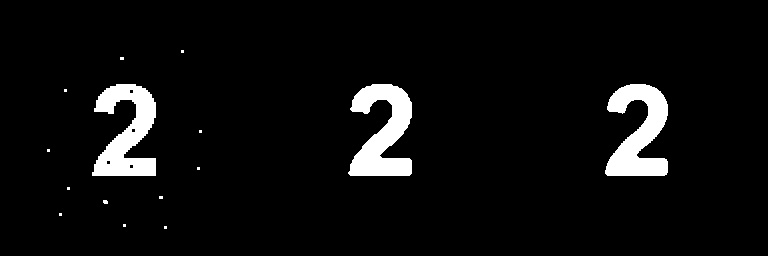
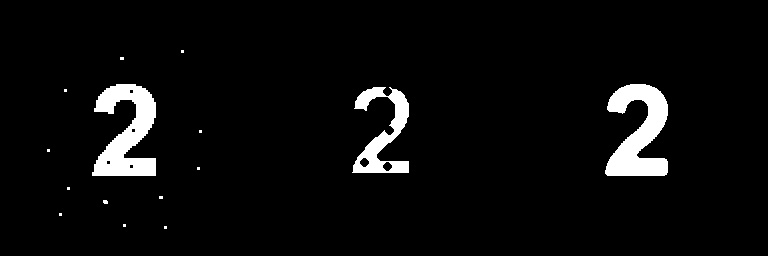
assignment3 complketerd

Changed region(s): [[0.4375, 0.3125, 0.5625, 0.6875]]

diff --git a/machinevision/assignment3/filter.py b/machinevision/assignment3/filter.py
@@ -3,24 +3,38 @@ import numpy as np
 
 
 def morphologicalFilter(image):
-    kernel = [[0,0,1,0,0], [0,1,1,1,0], [1,1,1,1,1], [0,1,1,1,0], [0,0,1,0,0]]
+    kernel = [[0,1,0], [1,1,1], [0,1,0]]
     kernel = np.array(kernel, np.uint8)
     ###############################################################
     # code for output image b
-    # image = cv2.morphologyEx(input, cv2.MORPH_ERODE, kernel)
+    # kernel = [[0, 0, 0, 1, 0, 0, 0],
+    #           [0, 0, 1, 1, 1, 0, 0],
+    #           [0, 1, 1, 1, 1, 1, 0],
+    #           [1, 1, 1, 1, 1, 1, 1],
+    #           [0, 1, 1, 1, 1, 1, 0],
+    #           [0, 0, 1, 1, 1, 0, 0],
+    #           [0, 0, 0, 1, 0, 0, 0]]
+    # kernel = np.array(kernel, np.uint8)
+    # image = cv2.morphologyEx(image, cv2.MORPH_ERODE, kernel)
     ###############################################################
 
     ###############################################################
     # code for output image d
-    image = cv2.morphologyEx(image, cv2.MORPH_CLOSE, kernel)
-    image = cv2.morphologyEx(image, cv2.MORPH_OPEN, kernel)
+    # kernel = [[0,0,1,0,0], [0,1,1,1,0], [1,1,1,1,1], [0,1,1,1,0], [0,0,1,0,0]]
+    # kernel = np.array(kernel, np.uint8)
+    # image = cv2.morphologyEx(image, cv2.MORPH_CLOSE, kernel)
+    # image = cv2.morphologyEx(image, cv2.MORPH_OPEN, kernel)
     ###############################################################
+
+    image = cv2.morphologyEx(image, cv2.MORPH_OPEN, kernel)
+    image = cv2.morphologyEx(image, cv2.MORPH_CLOSE, kernel)
+    # image = cv2.morphologyEx(image, cv2.MORPH_OPEN, kernel)
 
 
     return image
 
 def medianFilter(input):
-    image = cv2.medianBlur(input, 7)
+    image = cv2.medianBlur(input, 5)
     # image = cv2.Laplacian(input, cv2.CV_64F)
     return image
 def saveImages(images, whichImage):
@@ -31,11 +45,11 @@ def saveImages(images, whichImage):
     outputImage[:, images[0].shape[1]:images[0].shape[1]*2] = images[1]
     outputImage[:, images[0].shape[1]*2:] = images[2]
 
-    cv2.imwrite(f"machinevision/assignment3/comparisons/{whichImage}comparison.jpg", outputImage)
+    cv2.imwrite(f"comparisons/{whichImage}comparison.jpg", outputImage)
 
 inputPath = 'machinevision/assignment3/'
-whichImage = 'morphology'
-image = cv2.imread(f'{inputPath}{whichImage}.png')
+whichImage = 'fingerprint_BW'
+image = cv2.imread(f'{whichImage}.png')
 images = []
 images.append(image)
 morphologicalFiltered = morphologicalFilter(image)
@@ -46,9 +60,5 @@ images.append(medianFiltered)
 
 saveImages(images, whichImage)
 #save the images to file
-cv2.imwrite(f'machinevision/assignment3/results/{whichImage}morphologicalFiltered.jpg', morphologicalFiltered)
-cv2.imwrite(f'machinevision/assignment3/results/{whichImage}medianFiltered.jpg', medianFiltered)
-
-# Apply both morphological and median filters on the fingerprint image 
-# (fingerprint_BW.png). Compare the result and comment under what condition, one filter 
-# might perform better than the othe
+cv2.imwrite(f'results/{whichImage}morphologicalFiltered.jpg', morphologicalFiltered)
+cv2.imwrite(f'results/{whichImage}medianFiltered.jpg', medianFiltered)

diff --git a/machinevision/assignment3/cells.py b/machinevision/assignment3/cells.py
@@ -14,6 +14,7 @@ gray = cv2.morphologyEx(gray, cv2.MORPH_DILATE, np.ones((19, 19), np.uint8))
 gray = cv2.blur(gray, (25, 25))
 cv2.imshow('blurred', gray)
 cv2.waitKey(0)
+cv2.imwrite("results/blurredCells.jpg", gray)
 
 # Apply Hough transform on the blurred image.
 detected_circles = cv2.HoughCircles(gray,
@@ -48,6 +49,6 @@ print(f'max: {max(radii)}')
 print(f'total: {len(radii)}')
 cv2.imshow('Detected Circles', img)
 cv2.waitKey(0)
-cv2.imwrite("cellcircled.jpg", img)
+cv2.imwrite("results/cellcircled.jpg", img)
 
 
